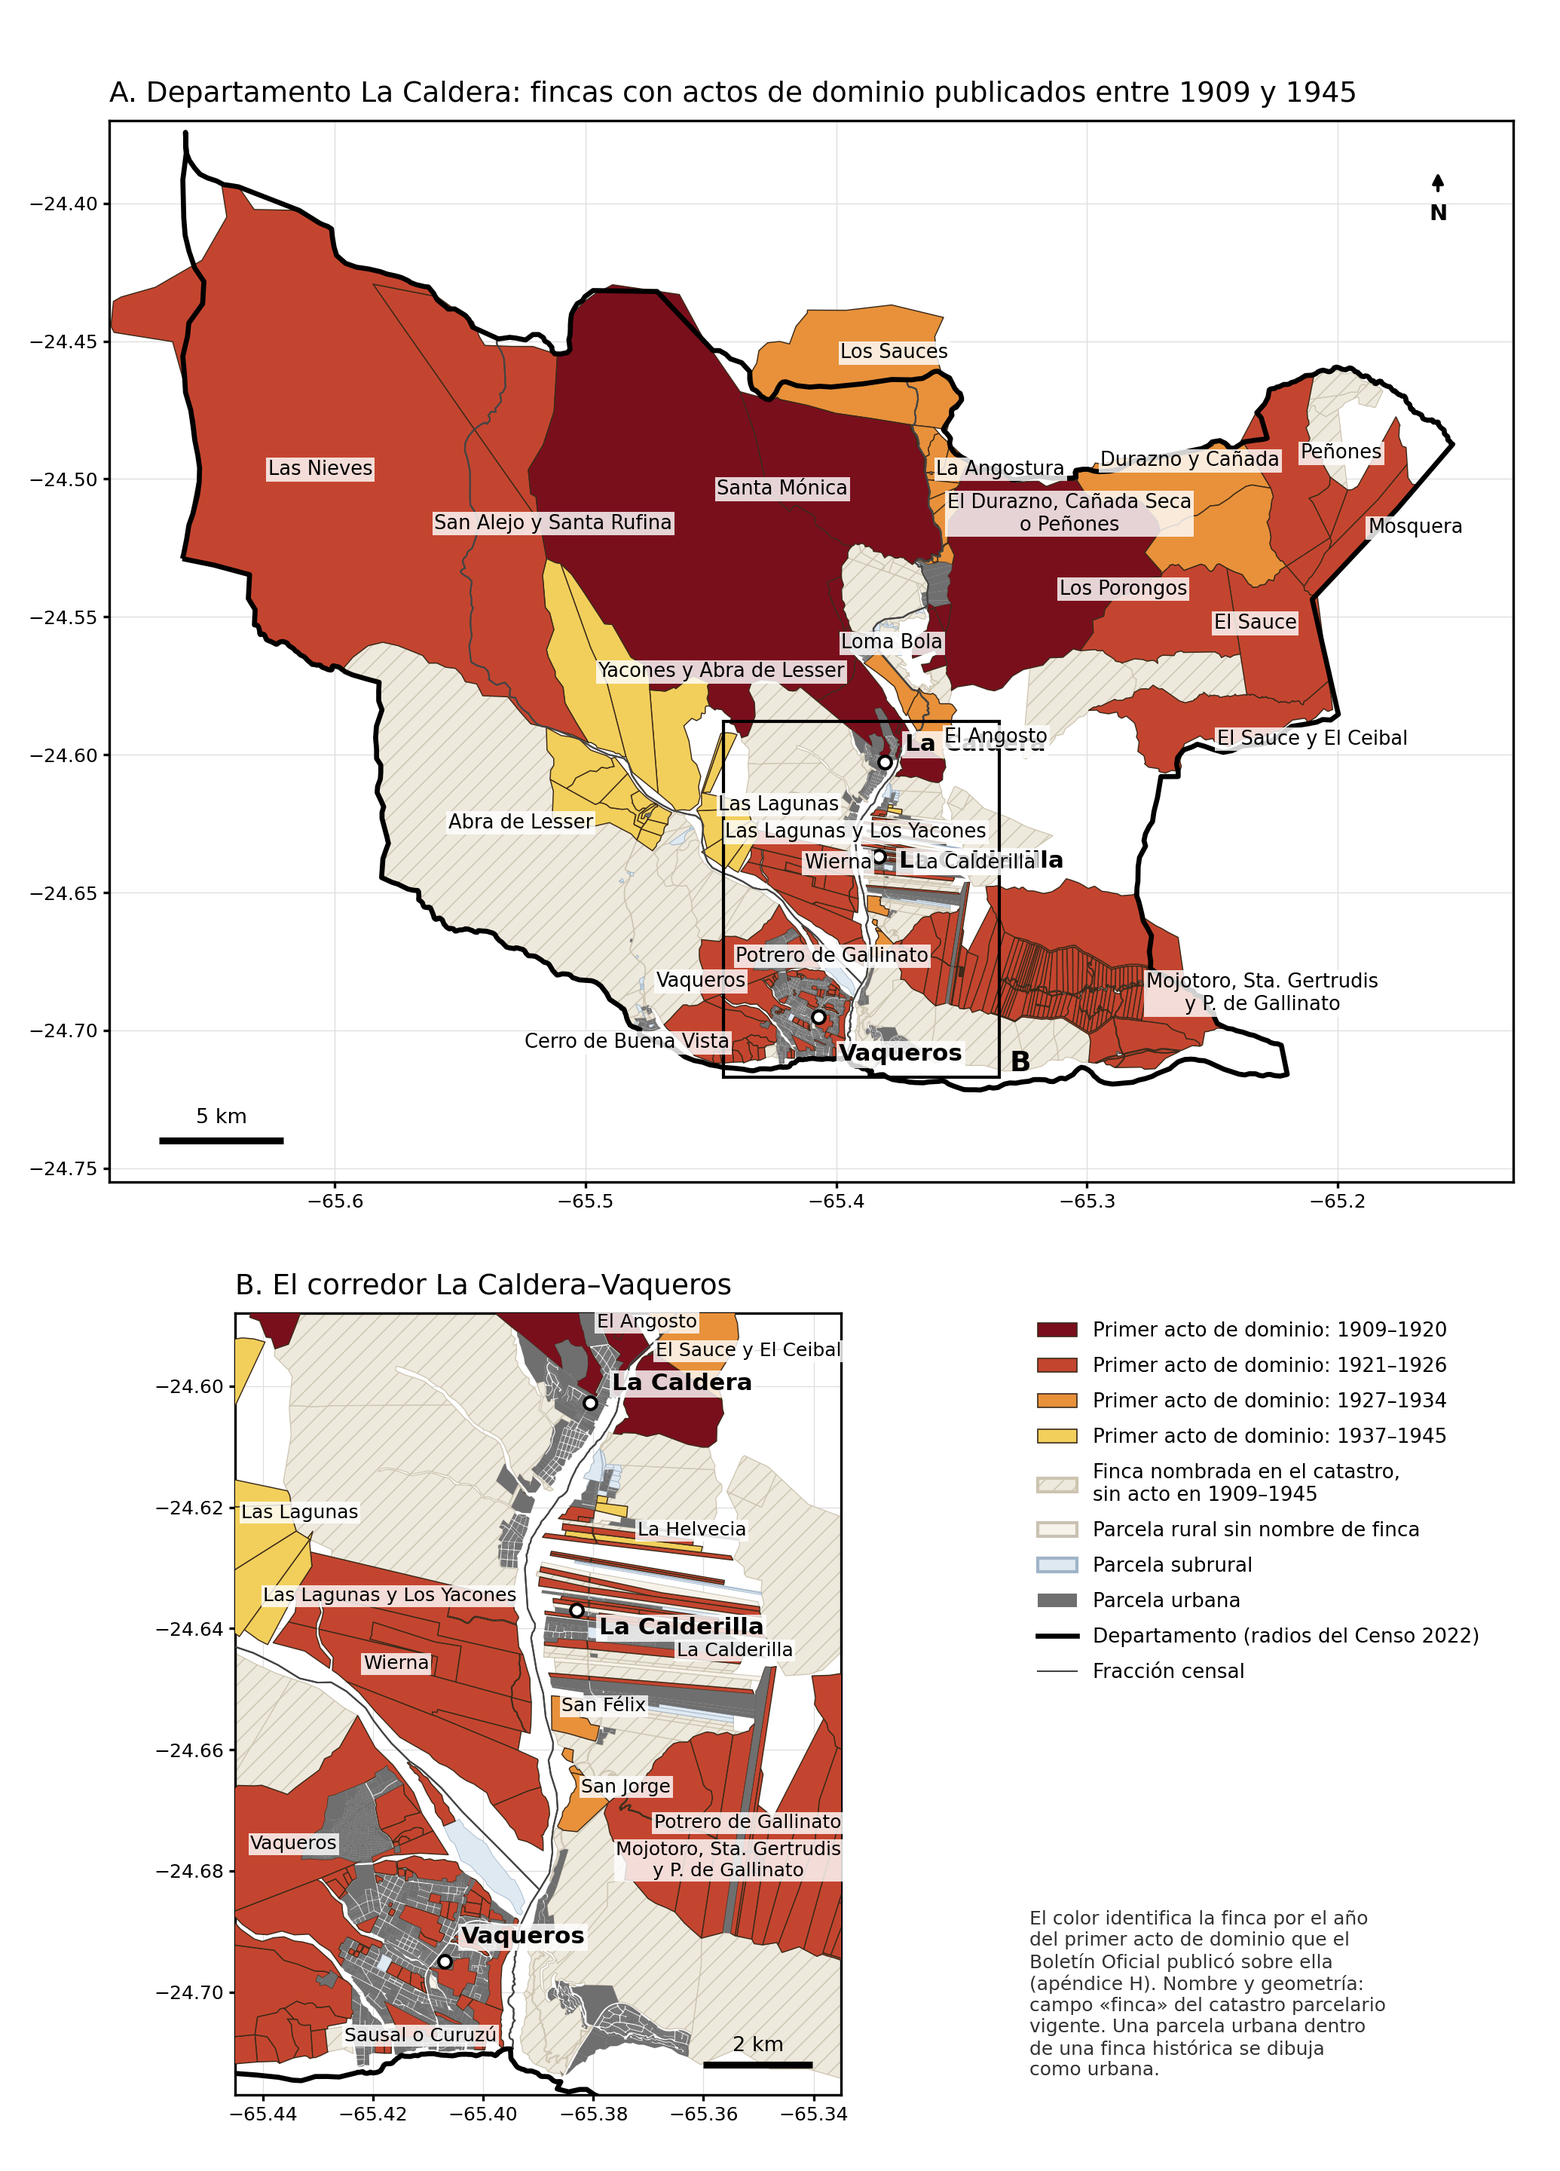
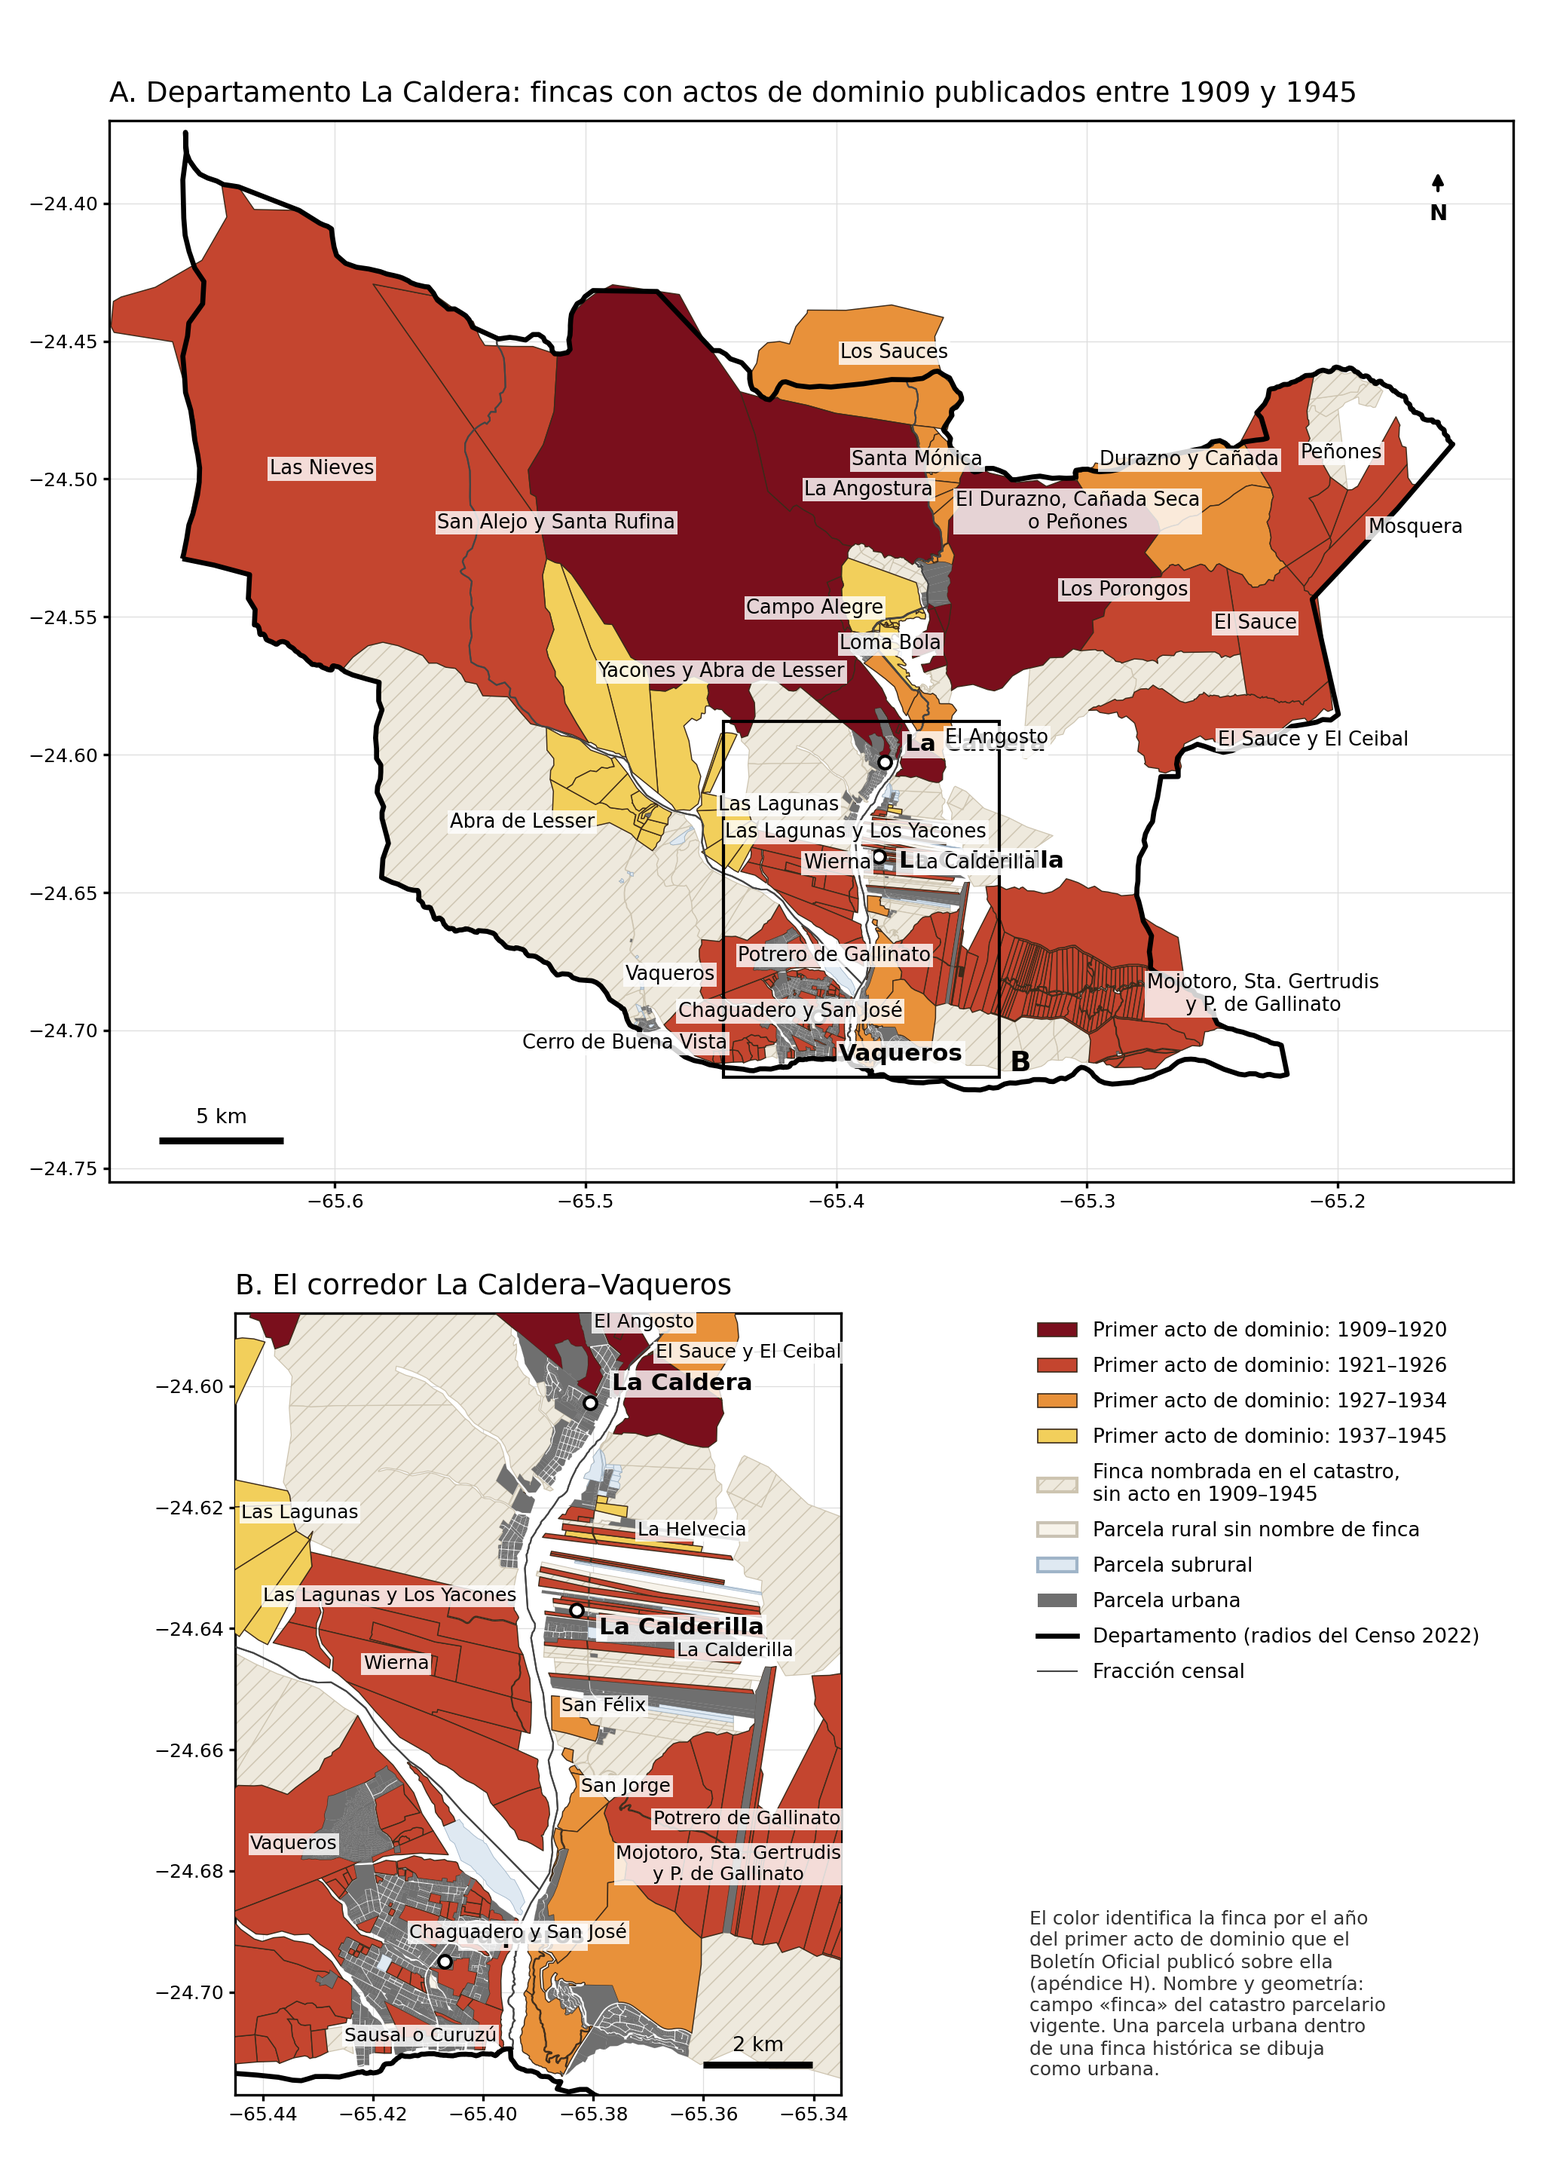
sincroniza con la copia de trabajo: mapa_agua, cargos hasta 74 relevos, figuras rehechas

diff --git a/scripts/mapa_agua.py b/scripts/mapa_agua.py
@@ -1,0 +1,197 @@
+# -*- coding: utf-8 -*-
+"""El agua del departamento entre 1885 y 1946: quien la concedia, desde donde
+empezo a vigilarla otro, y donde caen las fincas de cada acto.
+
+No es un mapa de cursos de agua: es el mapa de SIETE ACTOS. Cada finca que
+aparece esta nombrada en un acto publicado del Boletin Oficial, y los dos
+puntos marcados son los que dos de esos actos eligen como limite de una
+facultad.
+
+Lo que NO se puede dibujar y se declara en el epigrafe: el trazado de la
+acequia de Urquiza, porque el croquis que su escrito dice acompanar no se
+publico; y las superficies regadas, porque ningun acto las georreferencia.
+"""
+from base import (plt, cat, dep, D, FIG, base_axes, outline, towns, scalebar,
+                  north, Patch, Line2D)
+import geopandas as gpd
+import unicodedata
+from shapely.ops import unary_union
+
+def sd(s):
+    return ''.join(c for c in unicodedata.normalize('NFD', str(s).lower())
+                   if unicodedata.category(c) != 'Mn')
+
+# ---------------------------------------------------------------- los actos
+# finca del catastro -> (anio, rotulo corto, que dice el acto)
+ACTOS = {
+    'SAUSAL O CURUZU':      (1885, 'Sausal o Curuzú',
+                             'La Municipalidad concede 30 l/s del Wierna'),
+    'CERRO DE BUENA VISTA': (1924, 'Cerro de Buena Vista',
+                             'Concesión a Urquiza: 100 l/s para 190 ha'),
+    'VAQUEROS O ENTRE RIOS':(1924, 'Vaqueros o Entre Ríos',
+                             'La acequia la atraviesa'),
+    'WIERNA':               (1924, 'Wierna',
+                             'El río la provee antes del sobrante'),
+    'CAMPO ALEGRE':         (1938, 'Campo Alegre',
+                             'Segunda concesión, informa el municipio'),
+    'YACONES - ABRA DE LESSER': (1942, 'Yacones · Abra de Lesser',
+                             'Derechos «desde fecha inmemorial»'),
+    'ABRA DE LESSER':       (1942, 'Abra de Lesser',
+                             'Aguas que nacen y mueren en la finca'),
+}
+COL = {1885: '#7a0f1c', 1924: '#c4452f', 1938: '#e8913a', 1942: '#f2cf5b'}
+
+# ---------------------------------------------------------------- capas
+hid = gpd.read_file(D / 'hidrografia' / 'cursos_perennes_ign.gpkg')
+hint = gpd.read_file(D / 'hidrografia' / 'cursos_intermitentes_ign.gpkg')
+deptos = gpd.read_file(D / 'limites' / 'departamentos_ign.gpkg')
+
+RIOS = ['Río La Caldera', 'Río Wierna', 'Río Mojotoro',
+        'Río Las Nieves o de Castilla']
+rios = hid[hid.fna.isin(RIOS)].copy()
+cast = hint[hint.fna == 'Arroyo Castellanos'].copy()
+
+def juntas(a, b):
+    """punto donde dos cursos se tocan (o se acercan mas)"""
+    A = unary_union(hid[hid.fna == a].geometry.values)
+    B = unary_union(hid[hid.fna == b].geometry.values)
+    p = A.intersection(B)
+    if p.is_empty:
+        from shapely.ops import nearest_points
+        p = nearest_points(A, B)[0]
+    return p if p.geom_type == 'Point' else p.centroid
+
+P_JUNTAS = juntas('Río Wierna', 'Río La Caldera')
+
+cat['k'] = cat.finca.map(lambda f: sd(f) if f else None)
+fin = {k: cat[cat.k == sd(k)].dissolve() for k in ACTOS}
+
+# ---------------------------------------------------------------- figura
+fig = plt.figure(figsize=(8.27, 10.4))
+ax = fig.add_axes([0.075, 0.380, 0.865, 0.520])
+ext = (-65.62, -24.78, -65.20, -24.38)
+base_axes(ax, ext)
+
+# departamentos vecinos, en gris, para que se vea que la facultad cruza
+deptos.boundary.plot(ax=ax, color='#cdc4b0', lw=0.7, zorder=1)
+g = deptos[deptos.nam == 'General Güemes']
+if len(g):
+    g.plot(ax=ax, fc='#f4f2ed', ec='#cdc4b0', lw=0.8, zorder=0)
+    c = g.geometry.iloc[0].centroid
+    ax.text(c.x, c.y, 'GENERAL GÜEMES\n(Campo Santo)', fontsize=6.2,
+            ha='center', va='center', color='#8a8375', zorder=2)
+
+cat[cat.categoria != 'URBANO'].plot(ax=ax, fc='#faf8f4', ec='#e4e0d6',
+                                    lw=0.15, zorder=2)
+outline(ax)
+
+for k, (an, rot, _) in ACTOS.items():
+    gsub = fin[k]
+    if gsub.empty:
+        print('  sin geometria:', k); continue
+    gsub.plot(ax=ax, fc=COL[an], ec='#333333', lw=0.5, alpha=0.88, zorder=4)
+
+rios.plot(ax=ax, color='#2f6a80', lw=1.5, zorder=5)
+cast.plot(ax=ax, color='#8fb0bd', lw=1.0, linestyle='--', zorder=5)
+
+# los dos puntos que los actos eligen como limite
+ax.plot(P_JUNTAS.x, P_JUNTAS.y, marker='o', ms=9, mfc='#ffffff',
+        mec='#7a0f1c', mew=2.2, zorder=8)
+ax.annotate('LAS JUNTAS\ndel Wierna con el río La Caldera\n'
+            'Ley 11.078 de 1929: desde acá,\nCampo Santo vigila y prohíbe tomas',
+            xy=(P_JUNTAS.x, P_JUNTAS.y), xytext=(P_JUNTAS.x + 0.075, P_JUNTAS.y + 0.055),
+            fontsize=6.1, color='#7a0f1c', linespacing=1.35, zorder=9,
+            arrowprops=dict(arrowstyle='-', color='#7a0f1c', lw=0.8))
+
+for _, r in rios.iterrows():
+    pass
+et = {'Río La Caldera': (-65.375, -24.560), 'Río Wierna': (-65.470, -24.630),
+      'Río Mojotoro': (-65.265, -24.700),
+      'Río Las Nieves o de Castilla': (-65.520, -24.520)}
+for nom, (x, y) in et.items():
+    if nom in set(rios.fna):
+        ax.text(x, y, nom.replace(' o de Castilla', ''), fontsize=6.4,
+                color='#1f4e5f', style='italic', zorder=7,
+                bbox=dict(fc='white', ec='none', alpha=0.75, pad=0.8))
+
+towns(ax)
+scalebar(ax, -65.60, -24.762, 5)
+north(ax, -65.23, -24.43)
+
+# rotulos AFUERA del poligono, con linea guia: adentro no entran y se cortan
+OFF = {'SAUSAL O CURUZU': (-0.085, -0.028), 'CERRO DE BUENA VISTA': (-0.100, 0.012),
+       'VAQUEROS O ENTRE RIOS': (0.055, -0.048), 'WIERNA': (0.072, -0.010),
+       'CAMPO ALEGRE': (0.070, 0.030), 'YACONES - ABRA DE LESSER': (-0.055, 0.052),
+       'ABRA DE LESSER': (-0.090, -0.020)}
+for k, (an, rot, _) in ACTOS.items():
+    gsub = fin[k]
+    if gsub.empty:
+        continue
+    c = gsub.geometry.iloc[0].representative_point()
+    dx, dy = OFF.get(k, (0.06, 0.03))
+    ax.annotate(f'{rot}  {an}', xy=(c.x, c.y), xytext=(c.x + dx, c.y + dy),
+                fontsize=5.8, ha='center', va='center', color='#222222',
+                weight='bold', zorder=9,
+                bbox=dict(fc='white', ec=COL[an], lw=0.8, pad=1.6, alpha=0.95),
+                arrowprops=dict(arrowstyle='-', color=COL[an], lw=0.7))
+
+ax.set_title('A. Las fincas de cada acto, y el punto desde el cual la facultad '
+             'pasó a otro municipio', fontsize=8.4, loc='left', pad=6)
+
+# ---------------------------------------------------------------- el arco
+axb = fig.add_axes([0.075, 0.175, 0.865, 0.145])
+axb.set_xlim(1878, 1953); axb.set_ylim(0, 1); axb.axis('off')
+ARCO = [(1885, 'CONCEDE', 'La Municipalidad otorga 30 l/s\ndel Wierna a Eustaquio Murúa', '#7a0f1c'),
+        (1914, 'REGLAMENTA', 'Ordenanza del 13 de octubre: reglamenta\nla distribución de la totalidad', '#a52f28'),
+        (1929, 'PIERDE', 'Ley 11.078: Campo Santo vigila\ny prohíbe tomas desde las juntas', '#c4452f'),
+        (1931, 'COMPARTE', 'Comisión ad hoc con Campo Santo sobre\nlas aguas del Vaqueros y el Wierna', '#e8913a'),
+        (1942, 'INSCRIBE', 'Los derechos del municipio pasan\na los registros provinciales', '#d9b44a'),
+        (1946, 'COLABORA', 'Hidráulica fija zonas y un umbral de\n2.500 l/s; el municipio «colabora»', '#f2cf5b')]
+axb.plot([1883, 1948], [0.66, 0.66], color='#888888', lw=1.0)
+for i, (a, verbo, txt, col) in enumerate(ARCO):
+    axb.plot(a, 0.66, marker='o', ms=8, mfc=col, mec='#333333', mew=0.7, zorder=3)
+    arriba = i % 2 == 0
+    y = 0.80 if arriba else 0.50
+    axb.text(a, y, f'{a}  ·  {verbo}', fontsize=6.6, ha='center',
+             va='bottom' if arriba else 'top', weight='bold', color=col)
+    axb.text(a, y + (0.13 if arriba else -0.13), txt, fontsize=5.1, ha='center',
+             va='bottom' if arriba else 'top', color='#333333', linespacing=1.3)
+axb.set_title('B. El arco, en seis actos y cuatro verbos: conceder, reglamentar, '
+              'compartir, colaborar', fontsize=8.4, loc='left', pad=14)
+
+# ---------------------------------------------------------------- leyenda
+h = [Patch(fc=COL[a], ec='#333333',
+           label={1885: '1885 · concesión municipal',
+                  1924: '1924 · concesión a Urquiza',
+                  1938: '1938 · concesión «Campo Alegre»',
+                  1942: '1942 · derechos inscriptos por la Provincia'}[a])
+     for a in (1885, 1924, 1938, 1942)]
+h += [Line2D([], [], color='#2f6a80', lw=1.5, label='Curso perenne (IGN)'),
+      Line2D([], [], color='#8fb0bd', lw=1.0, ls=(0, (4, 2)), label='Arroyo Castellanos (intermitente)'),
+      Line2D([], [], marker='o', ms=7, mfc='white', mec='#7a0f1c', mew=2, ls='',
+             label='Las juntas: límite de la facultad de 1929')]
+fig.legend(handles=h, loc='lower left', bbox_to_anchor=(0.075, 0.062),
+           frameon=False, fontsize=6.2, ncol=2, handlelength=1.5,
+           columnspacing=1.6, labelspacing=0.5)
+
+fig.text(0.075, 0.970,
+         'El agua del departamento de La Caldera, 1885--1946',
+         fontsize=12.5, weight='bold')
+fig.text(0.075, 0.941,
+         'Quién la concedía, desde dónde empezó a vigilarla otro municipio, y dónde caen las fincas de cada acto.',
+         fontsize=7.4, color='#333333')
+
+fig.text(0.560, 0.038,
+         'Lo que no puede dibujarse: el recorrido de la acequia de Urquiza,\n'
+         'porque el croquis que su escrito dice acompañar no se publicó; y las\n'
+         'superficies regadas, porque ningún acto las georreferencia. Las fincas\n'
+         'se ubican por el campo «finca» del catastro vigente, no por el título.',
+         fontsize=5.0, va='bottom', color='#555555', linespacing=1.5)
+
+fig.text(0.075, 0.018,
+         'Fuentes: Boletín Oficial de Salta, años 1908--1946 leídos edición por edición (apéndice de fuentes); cursos de agua y límites, IGN;\n'
+         'fincas, campo «finca» del catastro parcelario de la Provincia (IDESA, septiembre de 2026). Elaboración propia con scripts/mapa_agua.py.',
+         fontsize=5.4, color='#333333', linespacing=1.5)
+
+fig.savefig(FIG / 'fig-agua-actos.png', dpi=300)
+print('ok', FIG / 'fig-agua-actos.png')

diff --git a/scripts/grafico_cargos.py b/scripts/grafico_cargos.py
@@ -1,5 +1,5 @@
 # -*- coding: utf-8 -*-
-"""Quien administra el departamento de La Caldera, 1908-1936.
+"""Quien administra el departamento de La Caldera, 1908-1946.
 
 No es un mapa: es la linea de tiempo de los cargos del departamento, un
 segmento por titular, con el estado de la Comision Municipal arriba y los
@@ -30,7 +30,7 @@ from matplotlib.colors import LinearSegmentedColormap
 import numpy as np
 
 D = Path(__file__).resolve().parents[1] / 'datos' / 'cargos'
-Y0, Y1 = 1908, 1937                      # el eje, en anios decimales
+Y0, Y1 = 1908, 1948                      # el eje, en anios decimales
 
 CARGOS = ['Comisaria de policia', 'Juzgado de paz', 'Registro civil',
           'Receptoria de rentas', 'Subcomisaria de Mojotoro',
@@ -80,7 +80,7 @@ def barra(ax, y, x0, x1, alto, color, ex0, ex1, zorder=3):
 
 
 # ancho de un caracter, en anios del eje, a la escala de esta figura
-CHAR = 0.245
+CHAR = 0.285
 
 
 # cuatro alturas alternadas para los rotulos que no entran en su barra: con
@@ -125,7 +125,7 @@ for c in CARGOS:
 
 # ------------------------------------------------------------------ figura
 fig = plt.figure(figsize=(8.27, 8.5))
-ax = fig.add_axes([0.205, 0.235, 0.765, 0.635])
+ax = fig.add_axes([0.195, 0.235, 0.735, 0.635])
 ax.set_xlim(Y0, Y1)
 
 FIL = 1.52
@@ -179,15 +179,15 @@ for k, (_, r) in enumerate(tut.iterrows()):
             va='bottom', fontsize=5.6, color='#7a0f1c', weight='bold')
 
 ax.set_yticks([])
-ax.set_xticks(range(Y0, Y1 + 1, 2))
-ax.set_xticklabels([str(a) for a in range(Y0, Y1 + 1, 2)], fontsize=6)
+ax.set_xticks(range(Y0, Y1 + 1, 4))
+ax.set_xticklabels([str(a) for a in range(Y0, Y1 + 1, 4)], fontsize=6)
 ax.tick_params(length=2, pad=2)
 for s in ('top', 'right', 'left'):
     ax.spines[s].set_visible(False)
 ax.spines['bottom'].set_color('#888888')
 
 # ------------------------------------------------------------------ textos
-fig.text(0.05, 0.972, 'Quién administra el departamento de La Caldera, 1908--1936',
+fig.text(0.05, 0.972, 'Quién administra el departamento de La Caldera, 1908--1946',
          fontsize=11, weight='bold', ha='left')
 fig.text(0.05, 0.941,
          'Un segmento por titular, en los años leídos edición por edición del Boletín Oficial. Arriba, el estado del cuerpo municipal.\n'
@@ -211,13 +211,13 @@ import textwrap
 notas = '\n'.join(textwrap.fill(f'{pd.Timestamp(r.fecha).year}  {r.rotulo}. {r.acto}',
                                 72, subsequent_indent='      ')
                   for _, r in tut.iterrows())
-fig.text(0.560, 0.158, 'Los cuatro episodios de tutela', fontsize=6.4,
+fig.text(0.560, 0.158, 'Los episodios de tutela', fontsize=6.4,
          weight='bold', va='top')
 fig.text(0.560, 0.143, notas, fontsize=4.9, va='top', linespacing=1.55,
          color='#333333')
 
 fig.text(0.055, 0.034,
-         'Fuente: decretos, resoluciones y edictos del Boletín Oficial de Salta de los años 1908--1936 leídos edición por edición\n'
+         'Fuente: decretos, resoluciones y edictos del Boletín Oficial de Salta de los años 1908--1946 leídos edición por edición\n'
          '(apéndice de fuentes). Elaboración propia con scripts/grafico_cargos.py y datos/cargos/ del repositorio mapas_caldera.',
          fontsize=5.6, va='top', color='#333333', linespacing=1.6)
 

diff --git a/scripts/mapa_fincas.py b/scripts/mapa_fincas.py
@@ -5,6 +5,8 @@ from adjustText import adjust_text
 FINCAS = {
     'SAN ALEJO - SANTA RUFIN': (1909, 'San Alejo y Santa Rufina'),
     'SANTA MONICA': (1912, 'Santa Mónica'),
+    'CAMPO ALEGRE': (1938, 'Campo Alegre'),
+    'CHAGUADERO Y SAN JOSE': (1930, 'Chaguadero y San José'),
     'LAS NIEVES': (1925, 'Las Nieves'),
     'MOSQUERA': (1925, 'Mosquera'),
     'LOS PORONGOS': (1910, 'Los Porongos'),
